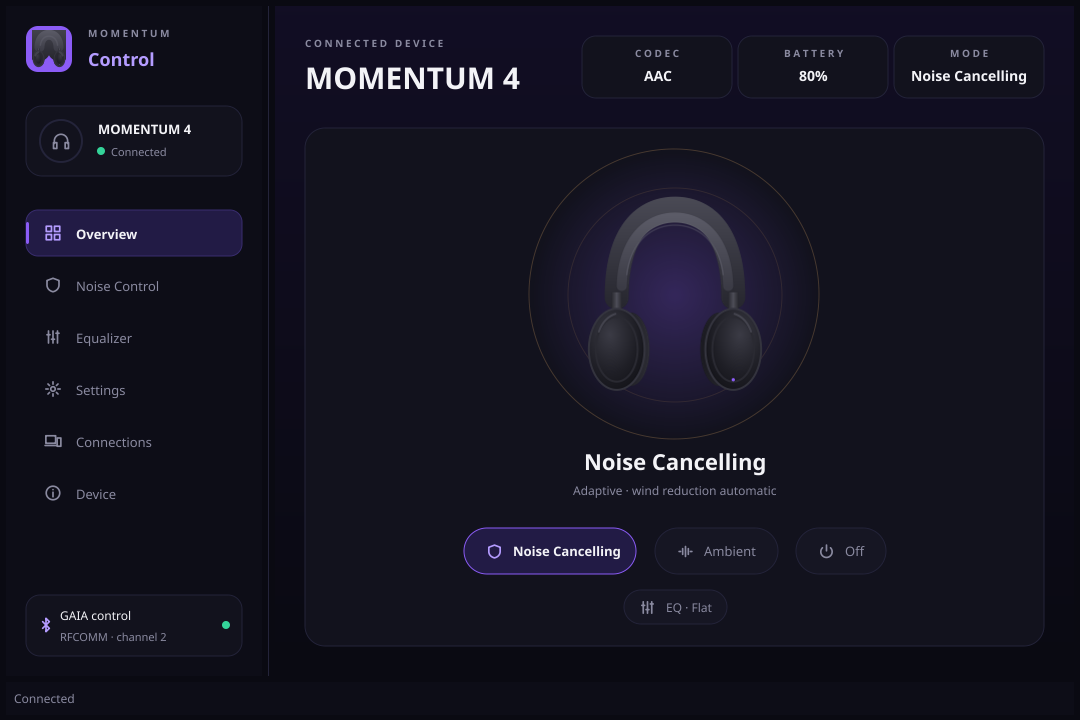
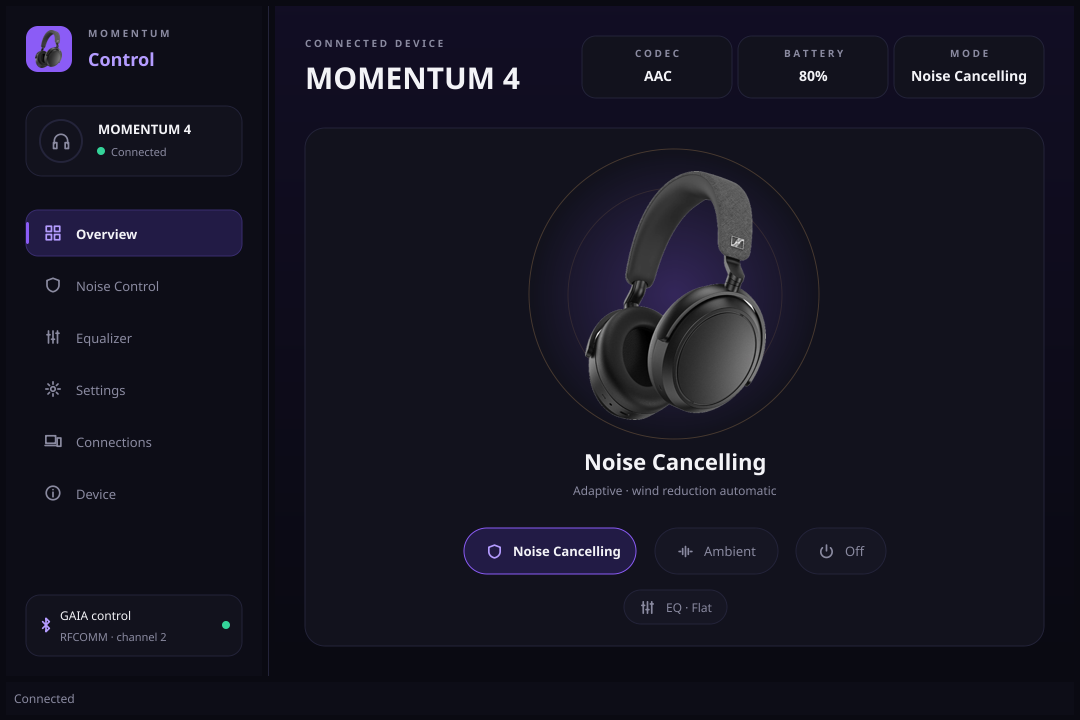
revert: bring back the headphone photo instead of the vector drawing
The drawing did not hold up next to the rest of the UI. The photo is
the same cut-out as before, restored from history; the README
screenshot is regenerated with it.

Note: the photo had been removed in 2dbeed3 (staged before that commit
by mistake) rather than c57d017, where the drawing was added.

Changed region(s): [[0.5194, 0.2139, 0.7333, 0.5806], [0.0306, 0.0306, 0.0611, 0.0917]]

diff --git a/cmd/momentum4/icons.go b/cmd/momentum4/icons.go
@@ -61,10 +61,10 @@ func hexColor(c color.Color) string {
 	return fmt.Sprintf("#%02x%02x%02x", n.R, n.G, n.B)
 }
 
-// headphonesArt is the illustration on the overview and in the logo tile: an
-// original drawing of an over-ear headset, not product photography.
+// headphonesArt is the product photo shown in the overview and the logo tile,
+// cut out from its white background so it sits on the dark panel.
 //
-//go:embed assets/headphones.svg
-var headphonesSVG []byte
+//go:embed assets/headphones.png
+var headphonesPNG []byte
 
-var headphonesArt = fyne.NewStaticResource("headphones.svg", headphonesSVG)
+var headphonesArt = fyne.NewStaticResource("headphones.png", headphonesPNG)

diff --git a/cmd/momentum4/widget_hero.go b/cmd/momentum4/widget_hero.go
@@ -60,7 +60,7 @@ func (r *heroRenderer) Layout(size fyne.Size) {
 	place(r.glow, d)
 	place(r.outer, d)
 	place(r.inner, d*0.74)
-	place(r.img, d*0.72)
+	place(r.img, d*0.86)
 }
 
 func (r *heroRenderer) MinSize() fyne.Size { return fyne.NewSize(260, 260) }
